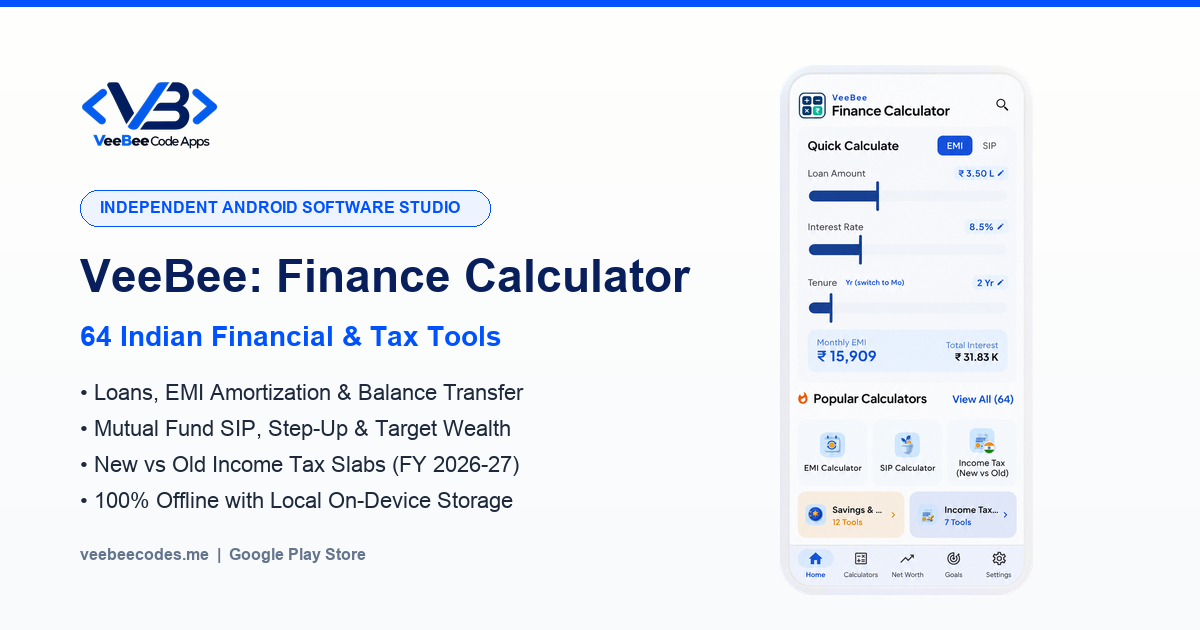
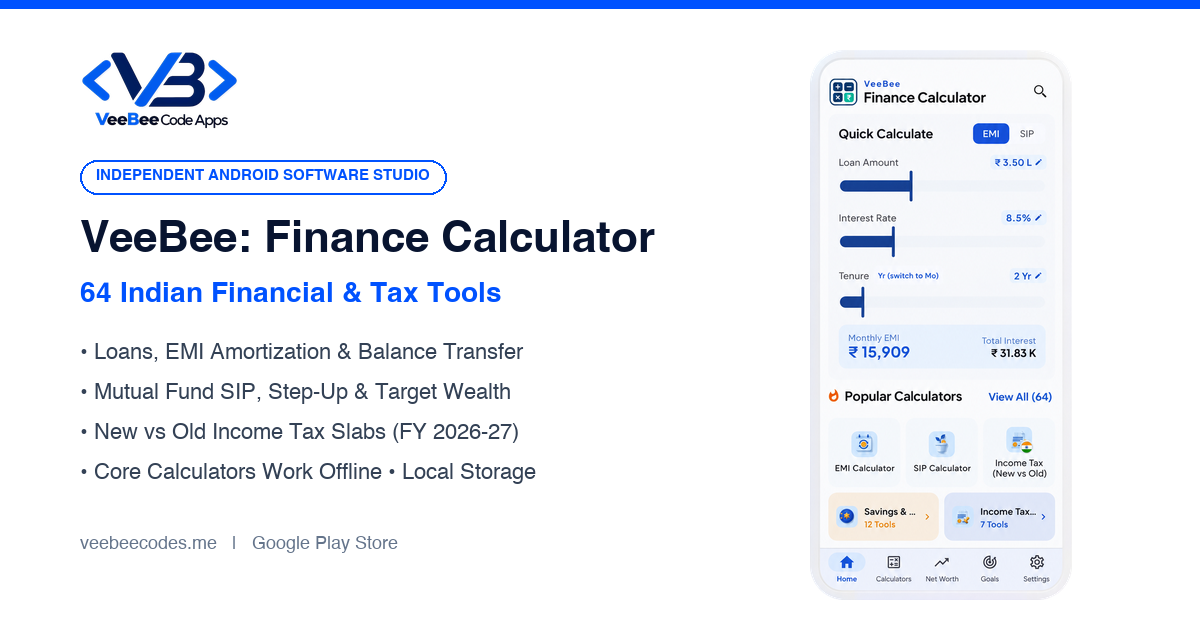
Part A: Accurate PDF export rules, offline claims, privacy policy audit, and footer polish

diff --git a/privacy.html b/privacy.html
@@ -36,7 +36,7 @@
   <main id="main-content" class="container">
     <div class="doc-content">
       <h1>Privacy Policy</h1>
-      <div class="doc-meta">Last updated: October 9, 2026</div>
+      <div class="doc-meta">Last updated: November 3, 2026</div>
 
       <p>
         This Privacy Policy explains how <strong>VeeBee Code Apps</strong> ("we", "us", "our"), Bangalore, Karnataka, India, handles information in the <strong>Finance Calculator</strong> mobile app (package <code>com.veebee.fincalc</code>, "the App") and on our website <a href="https://veebeecodes.me">https://veebeecodes.me</a> ("the Website").
@@ -44,83 +44,92 @@
 
       <h2>1. Summary</h2>
       <ul>
-        <li>The App needs no account, login or sign-up.</li>
-        <li>The numbers you type into calculators, your saved calculations, goals, net worth entries, reminders and settings stay on your device. We do not receive them.</li>
-        <li>We do not ask for your name, PAN, Aadhaar, bank details or contacts.</li>
-        <li>The App shows ads (Google AdMob) unless you buy Pro. Ad providers may collect certain device and advertising data, described below.</li>
+        <li>The App requires no account, registration, login or sign-up.</li>
+        <li>Your financial inputs, salary, loans, assets, goals, net worth logs and notes stay exclusively on your device in local SQLite storage. We have no servers and cannot access your data.</li>
+        <li>We do not collect your name, email, PAN, Aadhaar, bank details, contacts, or documents.</li>
+        <li>The free version shows ads served by Google AdMob, which may collect your device advertising ID and technical identifiers. Upgrading to Pro permanently removes all ads.</li>
       </ul>
 
-      <h2>2. Information stored on your device only</h2>
+      <h2>2. Information Stored on Your Device Only</h2>
       <p>
-        Calculator inputs and results, saved calculations, favourites, goals, net worth entries, reminders, theme and currency preferences, and your Pro status. This data is not sent to us. Uninstalling the App or using "Clear all" in Settings deletes it. Backup exports and PDFs you create are saved or shared only where you choose.
+        All calculations, history, bookmarks, financial goals, net worth asset/liability records, bill reminders, theme choices, and local security preferences are stored locally in an on-device SQLite database.
       </p>
+      <ul>
+        <li><strong>Free Tier Capacity:</strong> Stores up to 10 saved calculations, 2 financial goals, 6 net worth items, and 2 payment reminders locally.</li>
+        <li><strong>Pro Lifetime Capacity:</strong> Unlocks unlimited saved calculations, goals, net worth items, and reminders.</li>
+        <li><strong>Local Backup &amp; Restore:</strong> You can export an encrypted/structured JSON backup file of your data. The backup file is saved directly to your device storage or shared via Android's native sharesheet only to destinations you select.</li>
+        <li><strong>Data Deletion:</strong> Uninstalling the App or clearing app storage in your Android device settings instantly and permanently deletes all locally stored data.</li>
+      </ul>
 
-      <h2>3. Information collected by third-party services</h2>
+      <h2>3. Third-Party Services &amp; SDKs</h2>
       <ul>
         <li>
-          <strong>Google AdMob (ads):</strong> may collect your advertising ID, IP address, device and app information, and ad interaction data, to show and measure ads and prevent fraud. In the EEA, UK and other regions where required, we ask for your consent through Google's consent form. You can change your choice under Settings (Privacy options) and in your device's ad settings. Pro users see no ads. See <a href="https://policies.google.com/technologies/ads" target="_blank" rel="noopener">https://policies.google.com/technologies/ads</a>
+          <strong>Google AdMob (Advertising):</strong> The free tier uses Google Mobile Ads SDK (<code>play-services-ads</code>) to display banner, interstitial, and rewarded video ads (such as to unlock individual PDF exports). Google AdMob may collect and process device identifiers, advertising ID (AAID), IP address, and diagnostic interaction data to deliver and measure advertisements and prevent fraud. In regions requiring consent (such as the EEA and UK), we present Google's User Messaging Platform (UMP) consent dialogue. You can modify your choices at any time in the App Settings or via your Android device settings (Google &gt; Ads). Pro users see no ads. Learn more at <a href="https://policies.google.com/technologies/ads" target="_blank" rel="noopener">Google Ads Privacy</a>.
         </li>
         <li>
-          <strong>Google Play Billing:</strong> payment for Pro is processed entirely by Google Play. We never see your card or bank details. We only learn whether a Pro purchase exists on your Google account.
+          <strong>Google Play In-App Billing:</strong> Upgrades to Pro are processed exclusively through Google Play Billing (<code>billing-ktx</code>). We do not collect, process, or store credit card, debit card, UPI, or banking information. We only verify the cryptographic purchase token with Google Play to activate your Pro license.
         </li>
         <li>
-          <strong>Currency Converter:</strong> the App fetches public exchange rates from an online exchange rate service. Your amounts are not sent. Normal technical data such as your IP address is visible to that service.
+          <strong>Currency Exchange Rates:</strong> The Currency Converter tool fetches public exchange rate tables over an HTTPS connection. Your conversion amounts and selected currencies remain strictly on your device. If offline, the tool falls back to bundled baseline rates.
         </li>
         <li>
-          <strong>Google Play services</strong> may process data under Google's own Privacy Policy: <a href="https://policies.google.com/privacy" target="_blank" rel="noopener">https://policies.google.com/privacy</a>
+          <strong>Google Play In-App Review:</strong> We use Google's official in-app review library (<code>review-ktx</code>) to prompt for optional Play Store ratings without directing you outside the app.
         </li>
         <li>
-          <strong>Analytics &amp; Crash Reporting:</strong> The App does not use analytics or crash-reporting services.
+          <strong>Zero Cloud Analytics or Cloud Crash SDKs:</strong> The App does not integrate Google Firebase Analytics, Google Firebase Crashlytics, Sentry, Mixpanel, or any third-party telemetry tracker. If an unexpected runtime error occurs, the App creates a local text file (<code>last_crash_report.txt</code>) stored only on your device. This report is only shared if you explicitly choose to tap "Send Diagnostics" and email it to us via your own email client.
         </li>
       </ul>
 
-      <h2>4. Permissions</h2>
+      <h2>4. Device Permissions</h2>
       <ul>
-        <li><strong>Notifications:</strong> to show reminders you create. Reminders are scheduled on your device.</li>
-        <li><strong>Biometric / device lock:</strong> used only to unlock the App on your device. We never receive or store your fingerprint, face or PIN.</li>
-        <li><strong>Internet access:</strong> for ads, Google Play Billing and currency rates.</li>
+        <li><strong>Internet Access (<code>android.permission.INTERNET</code>):</strong> Used exclusively to load AdMob advertisements, verify Google Play Pro purchases, and refresh exchange rates. Core calculations work without internet access.</li>
+        <li><strong>Notifications (<code>android.permission.POST_NOTIFICATIONS</code>):</strong> Required on Android 13 (API 33) and above to display local reminder alerts for recurring bills and SIP schedules scheduled via Android WorkManager. No remote push notifications or marketing notifications are ever sent.</li>
+        <li><strong>Biometric Authentication (<code>android.permission.USE_BIOMETRIC</code>):</strong> Enables optional App Lock using your device's fingerprint or face unlock via AndroidX Biometric. Authentication occurs entirely within the Android secure hardware enclave; the App never accesses or stores your raw biometric data.</li>
+        <li><strong>In-App Billing (<code>com.android.vending.BILLING</code>):</strong> Enables the optional one-time Pro lifetime purchase via Google Play.</li>
       </ul>
 
-      <h2>5. How we use information</h2>
+      <h2>5. How We Use Information</h2>
       <p>
-        To run the App, show ads, process the Pro purchase through Google, fetch exchange rates, and respond to your emails. We do not sell personal data.
+        Any information handled by third-party SDKs is used solely to provide core application functionality, display non-intrusive advertising in the free version, authenticate Pro entitlements, and answer direct support emails. We do not sell, rent, monetize, or trade any personal data.
       </p>
 
-      <h2>6. Website</h2>
+      <h2>6. Website Privacy</h2>
       <p>
-        The Website is hosted on GitHub Pages, which may log technical data such as IP address and browser details. We do not use analytics or advertising cookies on the Website. If you email us, we use your email and message only to reply.
+        The Website (<a href="https://veebeecodes.me">https://veebeecodes.me</a>) is hosted on GitHub Pages. GitHub may log standard technical web server requests (including visitor IP addresses and browser headers) for security and operational integrity. We do not set tracking cookies, analytics tags, or third-party advertising scripts on the Website.
       </p>
 
-      <h2>7. Retention and deletion</h2>
+      <h2>7. Data Retention &amp; Deletion Requests</h2>
       <p>
-        Data on your device is deleted when you uninstall the App or clear it in Settings. Because we hold no account data, there is usually nothing for us to delete. Emails you send us are kept for up to 24 months, then deleted. To request deletion of anything we hold, email <a href="mailto:contact@veebeecodes.me">contact@veebeecodes.me</a> with the subject "Data Deletion Request". We respond within 30 days. Data held by Google (AdMob, Play) is managed through your Google account settings.
+        Because all application data is stored solely in your device's local database, deleting the app or clearing data in Android settings deletes all your data immediately. Support emails sent to us are retained for up to 24 months for customer support records and then deleted. To request deletion of any support correspondence, email <a href="mailto:contact@veebeecodes.me">contact@veebeecodes.me</a> with the subject "Data Deletion Request". We fulfill all verified requests within 30 days.
       </p>
 
-      <h2>8. Children</h2>
+      <h2>8. Children's Privacy</h2>
       <p>
-        The App is intended for users aged 18 and over and for general finance use. It is not directed at children, and we do not knowingly collect children's data. If you believe a child has contacted us, email us and we will delete it.
+        The App is designed for general audiences and adults managing personal and family finances. We do not knowingly target or collect personal information from children under the age of 18.
       </p>
 
       <h2>9. Security</h2>
       <p>
-        Your data stays on your device and is protected by your device's security. We recommend a screen lock and enabling App Lock. No method of electronic storage is completely secure.
+        Your data security relies on Android's application sandboxing and your device lock screen. For sensitive calculations and net worth tracking, we strongly recommend enabling the App Lock feature in Settings.
       </p>
 
-      <h2>10. Your rights</h2>
+      <h2>10. Your Rights (DPDP Act, GDPR, CCPA)</h2>
       <p>
-        Under applicable law, including India's Digital Personal Data Protection Act, 2023, you may ask to access, correct or delete personal data we hold. Email us at the address below.
+        Depending on your jurisdiction, including under India's Digital Personal Data Protection Act, 2023 (DPDPA), the EU/UK General Data Protection Regulation (GDPR), and the California Consumer Privacy Act (CCPA), you have rights regarding access, correction, and deletion of personal data. Since we do not maintain accounts or server-side databases, you exercise these rights directly on your device by managing app permissions, ad consent preferences, or clearing local storage.
       </p>
 
-      <h2>11. Changes</h2>
+      <h2>11. Changes to This Policy</h2>
       <p>
-        We may update this policy. The date above shows the latest version. Material changes will be shown in the App or on this page.
+        We may update this Privacy Policy periodically to reflect app updates or regulatory adjustments. Any revisions will be published on this page with an updated effective date.
       </p>
 
-      <h2>12. Contact</h2>
+      <h2>12. Contact Information</h2>
       <p>
+        If you have questions regarding this Privacy Policy, please contact:<br>
         <strong>VeeBee Code Apps</strong><br>
         Bangalore, Karnataka, India<br>
-        Email: <a href="mailto:contact@veebeecodes.me">contact@veebeecodes.me</a> | Website: <a href="https://veebeecodes.me">https://veebeecodes.me</a>
+        Email: <a href="mailto:contact@veebeecodes.me">contact@veebeecodes.me</a><br>
+        Website: <a href="https://veebeecodes.me">https://veebeecodes.me</a>
       </p>
     </div>
   </main>

diff --git a/index.html b/index.html
@@ -52,7 +52,7 @@
           "name": "What is included in the Free plan versus the Pro Lifetime Upgrade?",
           "acceptedAnswer": {
             "@type": "Answer",
-            "text": "All 64 financial calculators, interactive charts, light/dark themes, App Lock, and local backup/restore are available for everyone. The Free tier supports up to 10 saved calculations, 2 financial goals, 6 net worth items, and 2 payment reminders with non-intrusive ads. The one-time Pro Lifetime Upgrade removes all ads permanently and enables unlimited saved calculations, goals, net worth items, reminders, and instant PDF exports."
+            "text": "All 64 financial calculators, interactive charts, light/dark themes, App Lock, and local backup/restore are available for everyone. The Free tier supports up to 10 saved calculations, 2 financial goals, 6 net worth items, 2 payment reminders, and single PDF exports unlocked via rewarded ads (supported by Google AdMob). The one-time Pro Lifetime Upgrade removes all ads permanently and enables unlimited saved calculations, goals, net worth items, reminders, and instant PDF exports."
           }
         },
         {
@@ -141,13 +141,13 @@
             <span class="check-badge" aria-hidden="true">
               <svg fill="none" stroke="currentColor" viewBox="0 0 24 24" stroke-width="3"><path stroke-linecap="round" stroke-linejoin="round" d="M5 13l4 4L19 7"/></svg>
             </span>
-            <span>Local On-Device Storage — No Account, Login or PAN Required</span>
+            <span>Data stays on your device. No account, login or PAN needed</span>
           </li>
           <li>
             <span class="check-badge" aria-hidden="true">
               <svg fill="none" stroke="currentColor" viewBox="0 0 24 24" stroke-width="3"><path stroke-linecap="round" stroke-linejoin="round" d="M5 13l4 4L19 7"/></svg>
             </span>
-            <span>Client-Ready 1-Page PDF Reports, Net Worth &amp; Goal Tracking (Unlimited PDF export is part of Pro; the free plan includes limited exports)</span>
+            <span>Client-ready PDF reports, net worth and goal tracking (unlimited PDF export in Pro)</span>
           </li>
         </ul>
 
@@ -256,7 +256,7 @@
         </div>
         <div>
           <div class="metric-number">PDF &amp; PNG</div>
-          <div class="metric-label">Instant 1-Tap Report Export</div>
+          <div class="metric-label">Export Reports (Ad / Pro)</div>
         </div>
       </div>
     </section>
@@ -488,7 +488,7 @@
             <span class="panel-tag">Client &amp; Advisor Ready</span>
             <h3>Export Clean PDF &amp; Image Reports</h3>
             <p>
-              Share calculation summaries with family, clients, chartered accountants, or loan officers in one tap. Choose between a structured 1-page PDF report, a branded result card image, or formatted plain text. Unlimited PDF export is part of Pro; the free plan includes limited exports.
+              Share calculation summaries with family, clients, chartered accountants, or loan officers in one tap. Choose between a structured 1-page PDF report, a branded result card image, or formatted plain text. Unlimited PDF export is included with Pro; free users can unlock individual PDF exports by watching a short ad.
             </p>
             <ul class="panel-bullets">
               <li>
@@ -690,7 +690,7 @@
         <span class="section-eyebrow">VeeBee Code Apps Studio</span>
         <h2 class="section-title">Our Android Application Suite</h2>
         <p class="section-desc">
-          VeeBee Code Apps is a multi-product Android studio. Every app we ship follows the same commitment: offline-first functionality, no required account or login, and honest pricing.
+          VeeBee Code Apps is a multi-product Android studio. Every app we ship follows the same commitment: offline-first core engines, no required account or login, and honest pricing.
         </p>
       </div>
 
@@ -720,7 +720,7 @@
           <div class="chip-cloud" style="margin-bottom: 1.75rem;">
             <span class="chip chip-brand">64 Financial Calculators</span>
             <span class="chip chip-brand">FY 2026–27 Income Tax</span>
-            <span class="chip">Offline SQLite Storage</span>
+            <span class="chip">Offline-First Core</span>
             <span class="chip">PDF &amp; Image Reports</span>
             <span class="chip">Net Worth &amp; Goal Tracker</span>
             <span class="chip">Biometric App Lock</span>
@@ -772,7 +772,7 @@
           <div class="chip-cloud">
             <span class="chip">Native Kotlin &amp; Compose</span>
             <span class="chip">Privacy-First Design</span>
-            <span class="chip">Offline Capable</span>
+            <span class="chip">Offline-First Core</span>
             <span class="chip">Google Play Releases</span>
           </div>
         </div>
@@ -856,9 +856,9 @@
             </div>
             <span class="why-index">04</span>
           </div>
-          <h3>100% Offline Reliability</h3>
+          <h3>Core Calculators Work Offline</h3>
           <p>
-            Every calculation, chart, amortization schedule, and net worth snapshot runs locally on your device processor — even on an airplane or without mobile data.
+            All 64 mathematical engines, charts, amortization schedules, and net worth logs run locally on your device processor without internet. An active connection is only needed for live currency rate sync, Google Play billing, and displaying ads in the free tier.
           </p>
         </div>
 
@@ -873,7 +873,7 @@
           </div>
           <h3>Instant PDF &amp; Image Reports</h3>
           <p>
-            Export any calculation as a clean, client-ready 1-page PDF document or branded summary card image to share over WhatsApp, email, or print. Unlimited PDF export is part of Pro; the free plan includes limited exports.
+            Export any calculation as a clean, client-ready 1-page PDF document or branded summary card image to share over WhatsApp, email, or print. Unlimited PDF exports with Pro; single exports can be unlocked with a rewarded ad in the free version.
           </p>
         </div>
 
@@ -925,7 +925,7 @@
             </svg>
           </button>
           <div class="faq-answer">
-            All 64 financial calculators, interactive charts, light/dark themes, App Lock, and local backup/restore are available for everyone. The Free tier supports up to 10 saved calculations, 2 financial goals, 6 combined net worth items, and 2 payment reminders (supported by Google AdMob). The one-time <strong>Pro Lifetime Upgrade</strong> removes all ads permanently and enables unlimited saved calculations, goals, net worth items, reminders, and instant PDF exports.
+            All 64 financial calculators, interactive charts, light/dark themes, App Lock, and local backup/restore are available for everyone. The Free tier supports up to 10 saved calculations, 2 financial goals, 6 combined net worth items, 2 payment reminders, and single PDF exports unlocked via rewarded ads (supported by Google AdMob). The one-time <strong>Pro Lifetime Upgrade</strong> removes all ads permanently and enables unlimited saved calculations, goals, net worth items, reminders, and instant PDF exports.
           </div>
         </div>
 
@@ -988,7 +988,7 @@
         <div class="footer-brand">
           <img src="assets/logo-full.png" alt="VeeBee Code Apps Logo" class="footer-brand-logo" width="104" height="52" loading="lazy">
           <p>
-            Independent Android application engineering studio based in Bangalore, Karnataka, India. Building high-precision, offline-first software that respects user privacy.
+            Independent Android application engineering studio building high-precision utility tools that respect user privacy.
           </p>
         </div>
 
@@ -1015,7 +1015,6 @@
           <h5>Contact &amp; Location</h5>
           <ul>
             <li><a href="mailto:contact@veebeecodes.me">contact@veebeecodes.me</a></li>
-            <li><a href="https://veebeecodes.me">https://veebeecodes.me</a></li>
             <li style="color: var(--text-dim); font-size: 0.88rem; margin-top: 0.35rem;">
               Bangalore, Karnataka, India
             </li>
@@ -1029,7 +1028,7 @@
 
       <div class="footer-bottom">
         <div>&copy; 2026 VeeBee Code Apps. All rights reserved.</div>
-        <div>Independent Android Software Studio &bull; Bangalore, Karnataka, India</div>
+        <div>Independent Android Software Studio</div>
       </div>
     </div>
   </footer>

diff --git a/terms.html b/terms.html
@@ -36,7 +36,7 @@
   <main id="main-content" class="container">
     <div class="doc-content">
       <h1>Terms of Service</h1>
-      <div class="doc-meta">Last updated: October 9, 2026</div>
+      <div class="doc-meta">Last updated: November 3, 2026</div>
 
       <p>
         By installing or using the Finance Calculator app ("the App") or visiting <a href="https://veebeecodes.me">https://veebeecodes.me</a> ("the Website"), operated by <strong>VeeBee Code Apps</strong> ("we", "us"), you agree to these Terms. If you do not agree, please do not use them.
@@ -52,9 +52,12 @@
         The App provides calculators for illustration and education. Results depend on the inputs and assumptions you provide. See our <a href="disclaimer.html">Disclaimer</a>, which forms part of these Terms.
       </p>
 
-      <h2>3. Ads and Pro</h2>
+      <h2>3. Ads, Free Tier &amp; Pro Lifetime Upgrade</h2>
       <p>
-        The free version shows ads. "Pro" is a one-time, lifetime purchase made through Google Play that removes ads and unlocks the features described in the App. Payments, taxes and refunds are handled by Google Play under its policies. Pro is tied to your Google account. "Lifetime" means for the life of the App. If we ever discontinue the App, we will give notice in the App or on the Website. Features may change over time.
+        The free tier of the App is supported by non-intrusive advertisements served through Google AdMob. Free users can save up to 10 calculations, 2 financial goals, 6 net worth items, and 2 bill reminders, and can unlock single PDF exports by watching an optional rewarded video ad.
+      </p>
+      <p>
+        "Pro Lifetime Upgrade" is an optional, one-time in-app purchase processed securely through Google Play. Pro permanently removes all banner, interstitial, and rewarded ads, and unlocks unlimited saved calculations, financial goals, net worth items, bill reminders, and instant 1-tap PDF report exports. Payments, local sales taxes, and refund requests are governed strictly by Google Play's standard purchase policies. Pro entitlement is cryptographically associated with your Google Play account and can be restored across compatible Android devices signed in to the same account. "Lifetime" refers to the supported commercial lifecycle of the App.
       </p>
 
       <h2>4. Your responsibilities</h2>

diff --git a/style.css b/style.css
@@ -1715,8 +1715,24 @@ footer a:hover {
   color: var(--brand-primary);
 }
 
+.footer-disclaimer {
+  padding: 1.25rem 0;
+  margin-top: 1.5rem;
+  border-top: 1px solid var(--border-subtle);
+  font-size: 0.82rem;
+  color: var(--text-dim);
+  text-align: center;
+  line-height: 1.6;
+}
+
+.footer-disclaimer a {
+  color: var(--brand-primary);
+  text-decoration: underline;
+  text-underline-offset: 2px;
+}
+
 .footer-bottom {
-  padding-top: 1.75rem;
+  padding-top: 1.25rem;
   border-top: 1px solid var(--border-subtle);
   display: flex;
   justify-content: space-between;
@@ -1725,22 +1741,6 @@ footer a:hover {
   gap: 1rem;
   font-size: 0.85rem;
   color: var(--text-dim);
-}
-
-.footer-disclaimer {
-  padding-top: 1.25rem;
-  margin-top: 1.25rem;
-  border-top: 1px solid var(--border-subtle);
-  font-size: 0.82rem;
-  color: var(--text-dim);
-  text-align: center;
-  line-height: 1.5;
-}
-
-.footer-disclaimer a {
-  color: var(--brand-primary);
-  text-decoration: underline;
-  text-underline-offset: 2px;
 }
 
 /* ==========================================================================
@@ -1915,6 +1915,12 @@ footer a:hover {
   .trust-item:last-child {
     border-bottom: none;
     padding-bottom: 0;
+  }
+
+  .suite-tier-label span {
+    white-space: normal;
+    font-size: 0.72rem;
+    line-height: 1.3;
   }
 
   .doc-content {
